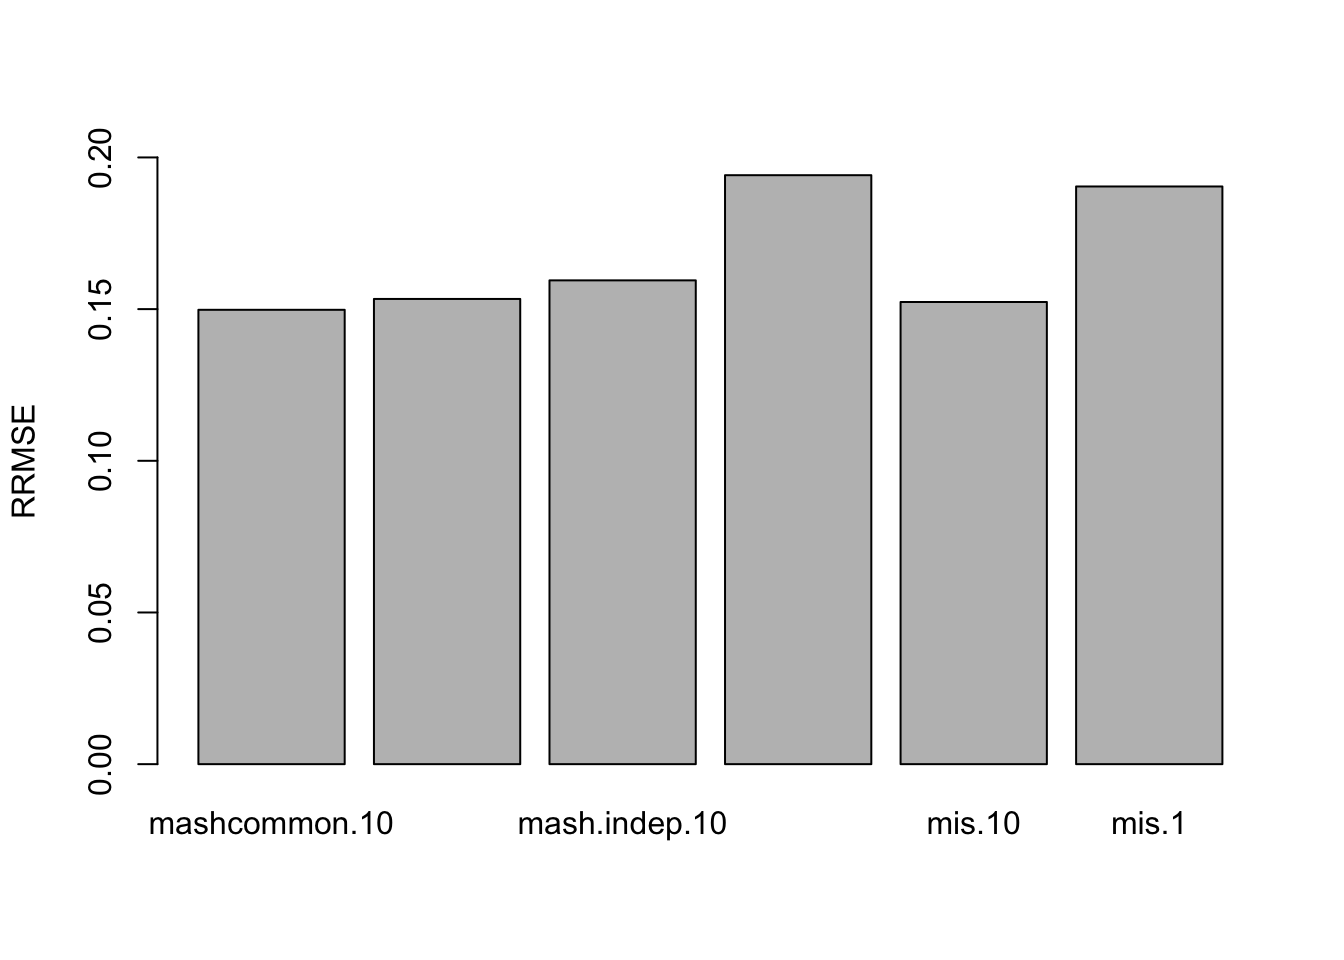
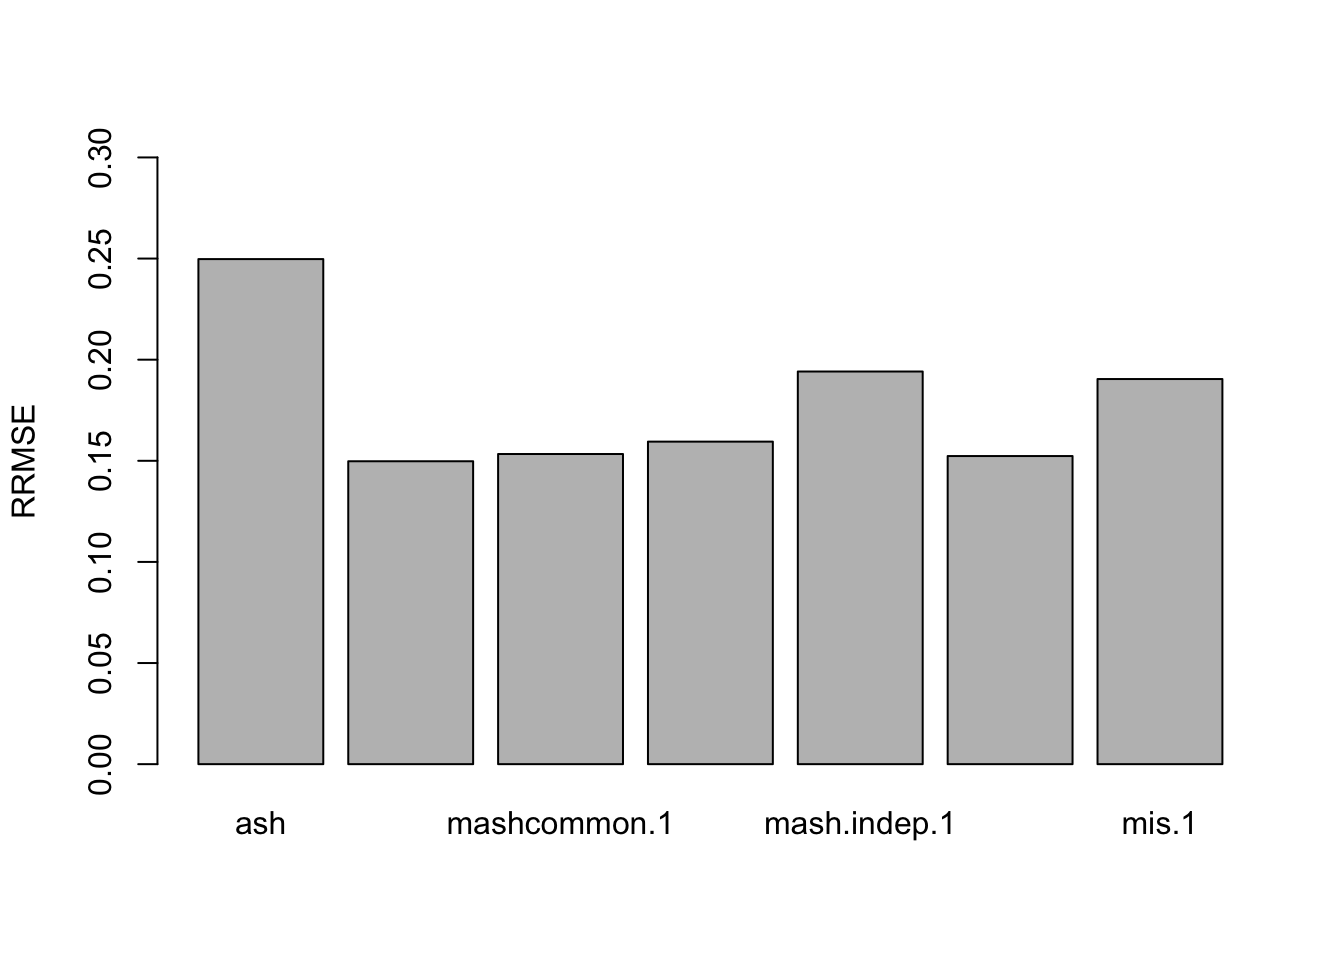
Build site.

diff --git a/docs/CompareMeanSignalRec.html b/docs/CompareMeanSignalRec.html
@@ -336,10 +336,8 @@ div.section {
 
 <!-- Update knitr chunk options -->
 <!-- Insert the date the file was last updated -->
-<p><strong>Last updated:</strong> 2018-05-16</p>
-<!-- Insert the R version (Git commit SHA1) if Git repository exists and R
- package git2r is installed -->
-<p><strong>Code version:</strong> 7946d8a</p>
+<p><strong>Last updated:</strong> 2018-05-17</p>
+<p><strong>Code version:</strong> 6c49cff</p>
 <pre><code>Loading required package: ashr</code></pre>
 <pre><code>corrplot 0.84 loaded</code></pre>
 <p>The data contains 10 conditions with 10% non-null samples. For the non-null samples, it has equal effects in the first c conditions.</p>
@@ -350,22 +348,27 @@ div.section {
 R = 10
 C = 2
 data = sim.mean.sig(nsamp=10000, ncond=C)</code></pre>
+<div id="ash-1-by-1" class="section level1">
+<h1>Ash 1 by 1</h1>
+<pre class="r"><code>L = matrix(-1/R, R, R)
+diag(L) = (R-1)/R
+row.names(L) = colnames(data$Chat)
+mash_data = mash_set_data(Bhat=data$Chat, Shat=data$Shat)
+mash_data_L = mash_set_data_contrast(mash_data, L)
+m.1by1 = mash_1by1(mash_data_L)</code></pre>
+</div>
 <div id="discard-last-column" class="section level1">
 <h1>Discard last column</h1>
 <div id="mash-contrast-model" class="section level2">
 <h2>Mash contrast model</h2>
-<pre class="r"><code>L = matrix(-1/R, R, R)
-L[cbind(1:R,1:R)] = (R-1)/R
-row.names(L) = colnames(data$Chat)
-L.10 = L[1:(R-1),]
-mash_data = mash_set_data(Bhat=data$Chat, Shat=data$Shat)
+<pre class="r"><code>L.10 = L[1:(R-1),]
 mash_data_L.10 = mash_set_data_contrast(mash_data, L.10)</code></pre>
 <pre class="r"><code>U.c = cov_canonical(mash_data_L.10)
 
 # data driven
 # select max
-m.1by1 = mash_1by1(mash_data_L.10)
-strong = get_significant_results(m.1by1,0.05)
+m.1by1.10 = mash_1by1(mash_data_L.10)
+strong = get_significant_results(m.1by1.10,0.05)
 # center Z
 mash_data_L.center = mash_data_L.10
 mash_data_L.center$Bhat = mash_data_L.10$Bhat/mash_data_L.10$Shat # obtain z
@@ -428,8 +431,8 @@ mash_data_L.1 = mash_set_data_contrast(mash_data, L.1)</code></pre>
 
 # data driven
 # select max
-m.1by1 = mash_1by1(mash_data_L.1)
-strong = get_significant_results(m.1by1,0.05)
+m.1by1.1 = mash_1by1(mash_data_L.1)
+strong = get_significant_results(m.1by1.1,0.05)
 # center Z
 mash_data_L.center = mash_data_L.1
 mash_data_L.center$Bhat = mash_data_L.1$Bhat/mash_data_L.1$Shat # obtain z
@@ -481,15 +484,17 @@ deltahat.10 = data$Chat - rowMeans(data$Chat)
 delta.1 = delta.10[, c(2:10, 1)]
 deltahat.1 = deltahat.10[, c(2:10, 1)]
 
-barplot(c(sqrt(mean((delta.10 - mashcontrast.model.10.full$result$PosteriorMean)^2)/mean((delta.10 - deltahat.10)^2)), 
+barplot(c(sqrt(mean((delta.10 - m.1by1$result$PosteriorMean)^2)/mean((delta.10 - deltahat.10)^2)),
+          sqrt(mean((delta.10 - mashcontrast.model.10.full$result$PosteriorMean)^2)/mean((delta.10 - deltahat.10)^2)), 
           sqrt(mean((delta.1 - mashcontrast.model.1.full$result$PosteriorMean)^2)/mean((delta.1 - deltahat.1)^2)), 
           sqrt(mean((delta.10 - Indep.model.10.full$result$PosteriorMean)^2)/mean((delta.10 - deltahat.10)^2)),
           sqrt(mean((delta.1 - Indep.model.1.full$result$PosteriorMean)^2)/mean((delta.1 - deltahat.1)^2)), 
           sqrt(mean((delta.10 - Mis.model.10.full$result$PosteriorMean)^2)/mean((delta.10 - deltahat.10)^2)), 
-          sqrt(mean((delta.1 - Mis.model.1.full$result$PosteriorMean)^2)/mean((delta.1 - deltahat.1)^2))), ylim=c(0,0.2), names.arg = c(&#39;mashcommon.10&#39;,&#39;mashcommon.1&#39;,&#39;mash.indep.10&#39;, &#39;mash.indep.1&#39;, &#39;mis.10&#39;, &#39;mis.1&#39;), ylab=&#39;RRMSE&#39;)</code></pre>
+          sqrt(mean((delta.1 - Mis.model.1.full$result$PosteriorMean)^2)/mean((delta.1 - deltahat.1)^2))), ylim=c(0,0.3), names.arg = c(&#39;ash&#39;,&#39;mashcommon.10&#39;,&#39;mashcommon.1&#39;,&#39;mash.indep.10&#39;, &#39;mash.indep.1&#39;, &#39;mis.10&#39;, &#39;mis.1&#39;), ylab=&#39;RRMSE&#39;)</code></pre>
 <p><img src="figure/CompareMeanSignalRec.Rmd/unnamed-chunk-29-1.png" width="672" style="display: block; margin: auto;" /></p>
 <p>We check the False Positive Rate and True Positive Rate. <span class="math display">\[FPR = \frac{|N\cap S|}{|N|} \quad TPR = \frac{|CS\cap S|}{|T|} \]</span></p>
-<pre class="r"><code>sign.test.mash.10 = as.matrix(delta.10)*mashcontrast.model.10.full$result$PosteriorMean
+<pre class="r"><code>sign.test.ash = as.matrix(delta.10)*m.1by1$result$PosteriorMean
+sign.test.mash.10 = as.matrix(delta.10)*mashcontrast.model.10.full$result$PosteriorMean
 sign.test.Indep.10 = as.matrix(delta.10)*Indep.model.10.full$result$PosteriorMean
 sign.test.Mis.10 = as.matrix(delta.10)*Mis.model.10.full$result$PosteriorMean
 sign.test.mash.1 = as.matrix(delta.1)*mashcontrast.model.1.full$result$PosteriorMean
@@ -498,17 +503,20 @@ sign.test.Mis.1 = as.matrix(delta.1)*Mis.model.1.full$result$PosteriorMean
 
 
 thresh.seq = seq(0, 1, by=0.0005)[-1]
+Ash = matrix(0,length(thresh.seq), 2)
 mashcontrast.1 = matrix(0,length(thresh.seq), 2)
 Indep.1 = matrix(0,length(thresh.seq), 2)
 Mis.1 = matrix(0,length(thresh.seq), 2)
 mashcontrast.10 = matrix(0,length(thresh.seq), 2)
 Indep.10 = matrix(0,length(thresh.seq), 2)
 Mis.10 = matrix(0,length(thresh.seq), 2)
-colnames(mashcontrast.1) = colnames(Mis.10) = colnames(Mis.1) = c(&#39;TPR&#39;, &#39;FPR&#39;)
+colnames(mashcontrast.1) = colnames(Mis.10) = colnames(Mis.1) = colnames(Ash) = c(&#39;TPR&#39;, &#39;FPR&#39;)
 colnames(Indep.1) = c(&#39;TPR&#39;, &#39;FPR&#39;)
 colnames(mashcontrast.10) = c(&#39;TPR&#39;, &#39;FPR&#39;)
 colnames(Indep.10) = c(&#39;TPR&#39;, &#39;FPR&#39;)
 for(t in 1:length(thresh.seq)){
+  Ash[t,] = c(sum(sign.test.ash&gt;0 &amp; m.1by1$result$lfsr &lt;= thresh.seq[t])/sum(delta.10!=0), sum(delta.10==0 &amp; m.1by1$result$lfsr &lt;=thresh.seq[t])/sum(delta.10==0))
+  
   mashcontrast.1[t,] = c(sum(sign.test.mash.1&gt;0 &amp; mashcontrast.model.1.full$result$lfsr &lt;= thresh.seq[t])/sum(delta.1!=0), sum(delta.1==0 &amp; mashcontrast.model.1.full$result$lfsr &lt;=thresh.seq[t])/sum(delta.1==0))
   
   Indep.1[t,] = c(sum(sign.test.Indep.1&gt;0&amp; Indep.model.1.full$result$lfsr &lt;=thresh.seq[t])/sum(delta.1!=0),  sum(delta.1==0&amp; Indep.model.1.full$result$lfsr &lt;=thresh.seq[t])/sum(delta.1==0))
